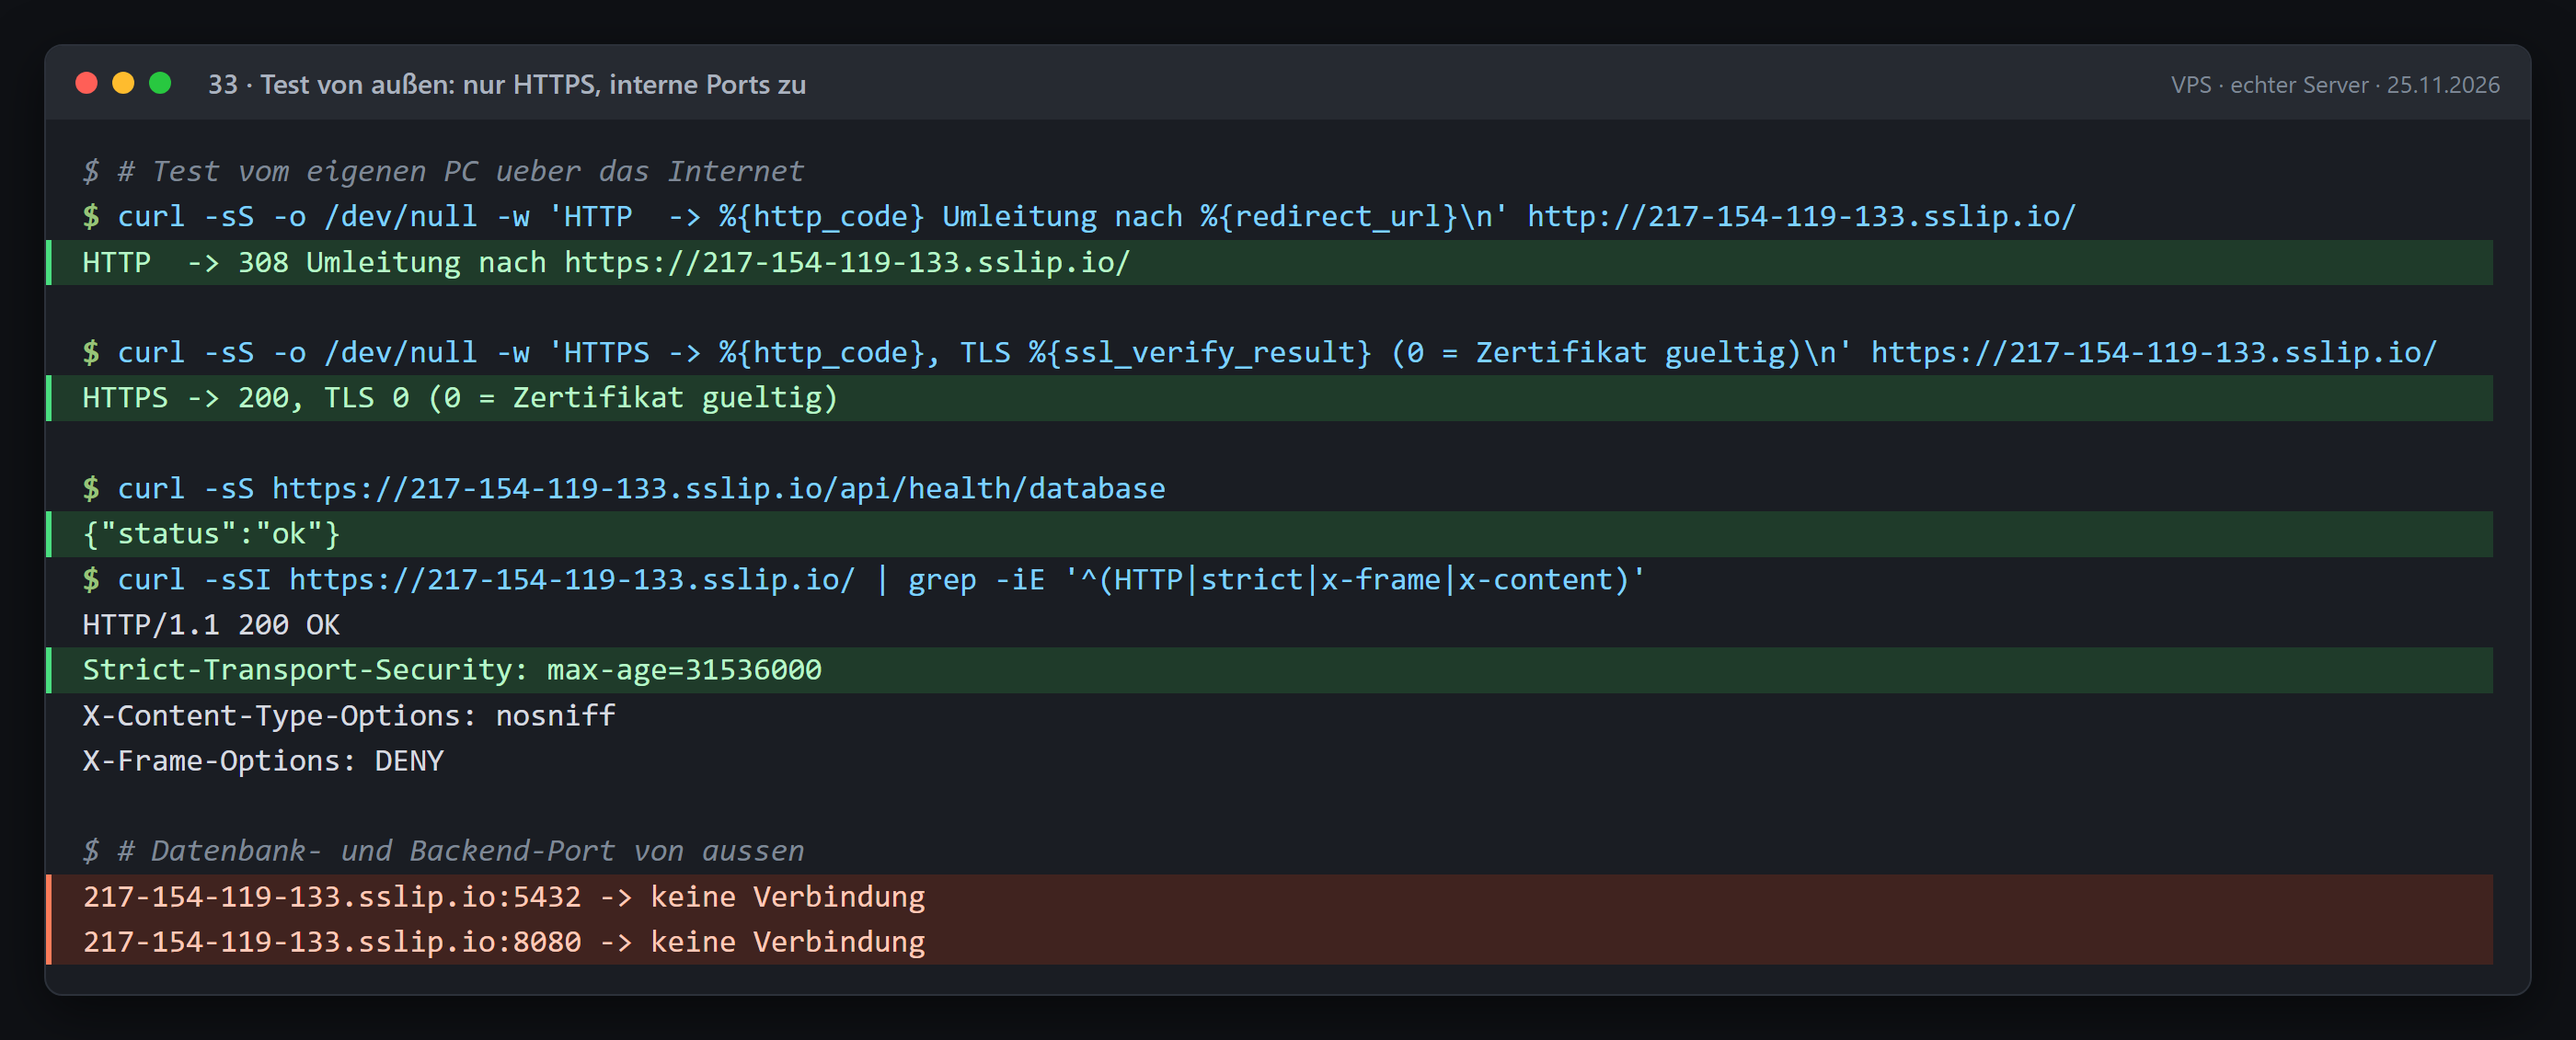
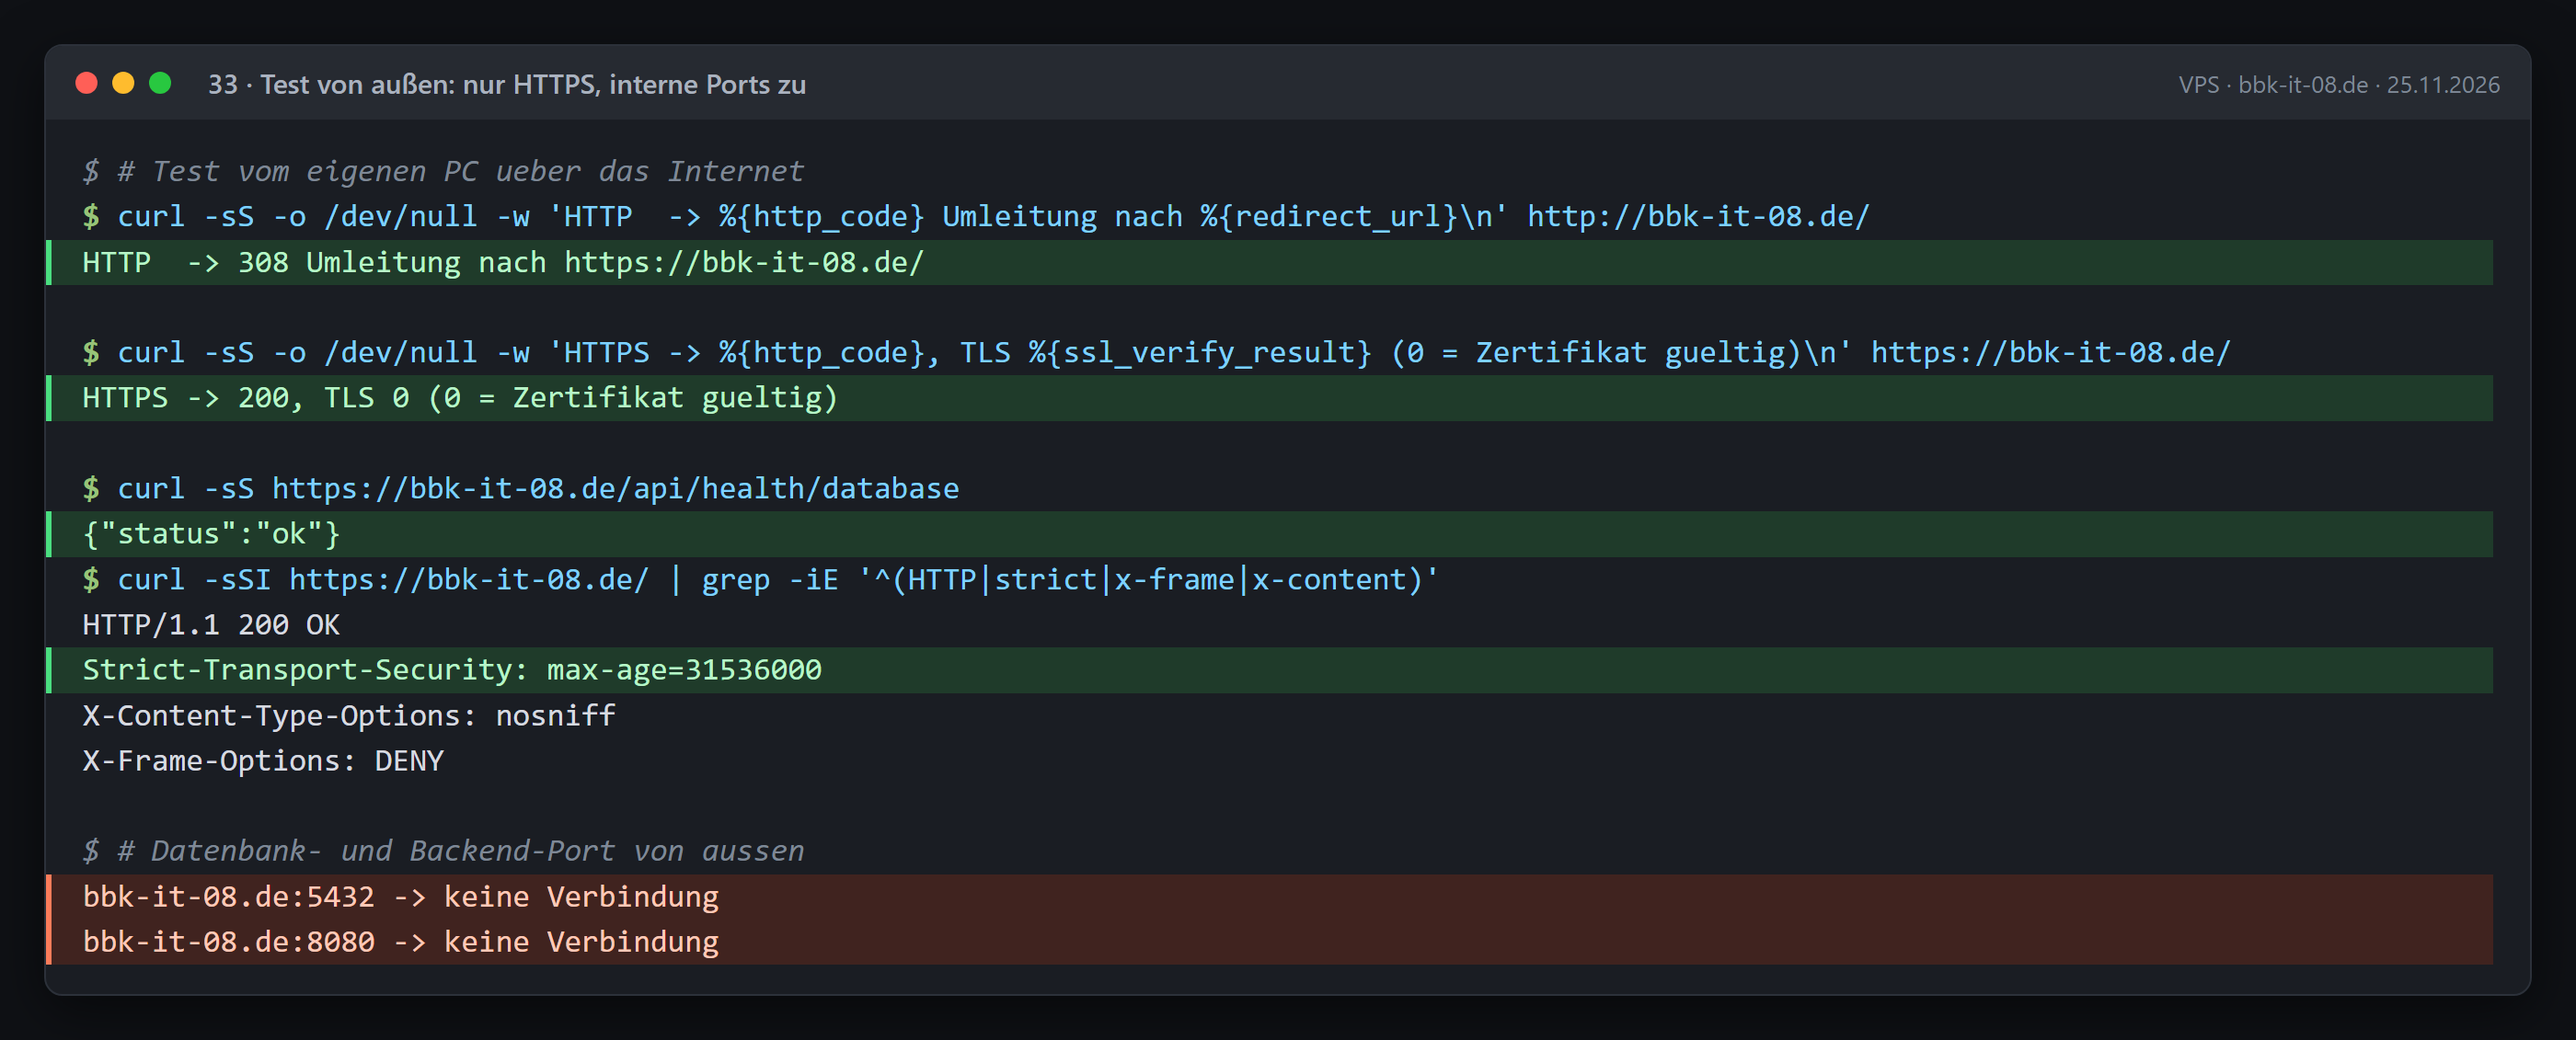
Umstellung auf bbk-it-08.de: Nachweise, Anleitung, Lerntagebuch

diff --git a/docs/anleitung_automatisches_deployment.md b/docs/anleitung_automatisches_deployment.md
@@ -45,7 +45,7 @@ Version auf dem Server. Niemand muss sich dafür auf dem Server anmelden.
 |---|---|
 | Ports nach außen | 22 (SSH, nur Schlüssel), 80 und 443. Datenbank und Backend haben keinen öffentlichen Port. |
 | Port 80 | Nur für die Zertifikatsprüfung von Let's Encrypt (ACME HTTP-01) und die automatische Umleitung auf HTTPS. Über Port 80 werden keine Anmeldedaten übertragen. |
-| HTTPS | Caddy holt und erneuert das Zertifikat selbst. Ohne eigene Domain wird `<ip>.sslip.io` verwendet (öffentlicher DNS-Dienst, der den Namen auf die IP abbildet). Mit eigener Domain: 3. Argument von `install.sh`. |
+| HTTPS | Caddy holt und erneuert das Zertifikat selbst. **Im Projekt: `https://bbk-it-08.de` und `www.bbk-it-08.de`** (DNS bei Strato, A-Records auf den VPS). Ohne eigene Domain fällt `install.sh` auf `<ip>.sslip.io` zurück. |
 | Cookies | `COOKIE_SECURE=true`: Das Session-Cookie wird nur über HTTPS gesendet; dazu HSTS-Header. |
 | ufw und Docker | Docker veröffentlicht Ports an ufw vorbei (eigene iptables-Regeln). Die ufw-Regeln für 80/443 dokumentieren die Freigabe; die tatsächliche Freigabe steuert `ports:` in `infra/stack/compose.yaml`. |
 | Deploy-Benutzer | Ohne Login-Shell und ohne sudo, aber in der Gruppe `docker` und damit praktisch root-gleich. |
@@ -60,6 +60,7 @@ Branch Protection könnte ein übernommenes GitHub-Konto Code auf den Server bri
 curl -fsSLO https://raw.githubusercontent.com/24it1schumacher/Abschlussprojekt_Berufsschule_Gruppe_8/main/infra/deploy/install.sh
 less install.sh                                     # vor dem Ausführen lesen
 sudo bash install.sh <admin-email> [branch] [hostname]
+# Projekt:  sudo bash install.sh <admin-email> main bbk-it-08.de,www.bbk-it-08.de
 ```
 
 Das Skript erzeugt alle Passwörter selbst, legt Datenbank und Rolle an, gibt 80/443 frei, rollt
@@ -94,6 +95,8 @@ einem Abbruch erneut gestartet werden, ohne Passwörter zu überschreiben.
 | Erster Server-Lauf | Abbruch mit `Permission denied`: Skripte waren im Repository nicht ausführbar (Git unter Windows speichert das Ausführungsrecht nicht). Der WSL-Test hatte das Skript mit `bash` gestartet und den Fehler deshalb nicht gezeigt. Behoben: Ausführungsrecht in Git gesetzt, systemd ruft über `bash` auf. |
 | `install.sh` komplett als root in WSL (Ubuntu 24.04, systemd) | Benutzer, Klon, Passwörter, Datenbank, SQL 002–010, Bau, Start, Admin-Konto: erfolgreich. Gefunden: Timer startete nicht (`Requires=docker.service` existiert unter Docker Desktop nicht). Behoben. |
 | Automatisches Ausrollen | Commit `1ea6318` gepusht → CI grün um 21:42:14 → Timer hat um 21:42:16 selbst ausgerollt |
+| Erster automatischer Rollout auf dem VPS | Commit `febcaed`: CI zunächst „ausstehend“ → Server wartet → CI grün 20:52:23 UTC → Server rollt 20:54:05 UTC selbst aus |
+| Umstellung auf `bbk-it-08.de` | Zertifikate für `bbk-it-08.de` und `www.bbk-it-08.de` automatisch von Let's Encrypt, HTTP → 308 auf HTTPS, 5432/8080 von außen zu |
 | Rollback | Noch nicht praktisch ausgelöst |
 
 ## 8. Grenzen

diff --git a/docs/lerntagebuecher/lerntagebuch_lasse_fischer_neu.md b/docs/lerntagebuecher/lerntagebuch_lasse_fischer_neu.md
@@ -224,6 +224,8 @@ Die Anleitung wurde mit Unterstützung der KI aus meinen Befehlen und Ausgaben d
 - Fehler behoben: Ausführungsrecht in Git gesetzt (`git update-index --chmod=+x`), systemd ruft zusätzlich über `bash` auf. Danach das komplette `install.sh` als root in WSL (Ubuntu 24.04) getestet – dabei noch einen Timer-Fehler gefunden und behoben.
 - HTTPS: Caddy holt das Zertifikat automatisch, Port 80 nur noch für Zertifikatsprüfung und Umleitung, Cookie nur über HTTPS.
 - Domain über die Rückwärtsauflösung der Server-IP gefunden: `mail.bbk-it-08.de` → Domain `bbk-it-08.de`; `bbk-it-08.de` und `www` zeigen auf den Server.
+- Mit `sudo bash install.sh … bbk-it-08.de,www.bbk-it-08.de` umgestellt: Caddy hat für beide Namen automatisch Let's-Encrypt-Zertifikate geholt. Die Anwendung läuft unter https://bbk-it-08.de.
+- Erster echter automatischer Rollout: Commit gepusht, Server hat gewartet, bis die CI grün war, und zwei Minuten später selbst ausgerollt.
 
 ### Lessons Learned
 

diff --git a/docs/praesentation/vps_deployment/README.md b/docs/praesentation/vps_deployment/README.md
@@ -13,6 +13,7 @@ Grün = erwartetes Ergebnis, Rot = gewollt blockiert, Gelb = zum Vergleichen / W
 | `35_github_actions.png` | CI-Lauf auf GitHub: drei Prüfungen grün |
 | `36_app_https.png` | Die Anwendung im Browser über HTTPS |
 
-Erzeugt mit `bash infra/deploy/nachweise_vps.sh <hostname>`; nach dem Wechsel auf `bbk-it-08.de` neu erzeugen.
+Bilder 33, 34 und 36 zeigen die Projektdomain `bbk-it-08.de`. Bild 30 stammt aus dem ersten echten automatischen Rollout (Commit `febcaed`) und wurde bewusst nicht ersetzt.
+Erzeugt mit `bash infra/deploy/nachweise_vps.sh bbk-it-08.de`.
 
 Vorschlag für die Präsentation: 19 (Architektur, Ordner `app_stack`) → 35 → 30 → 33 → 36.
